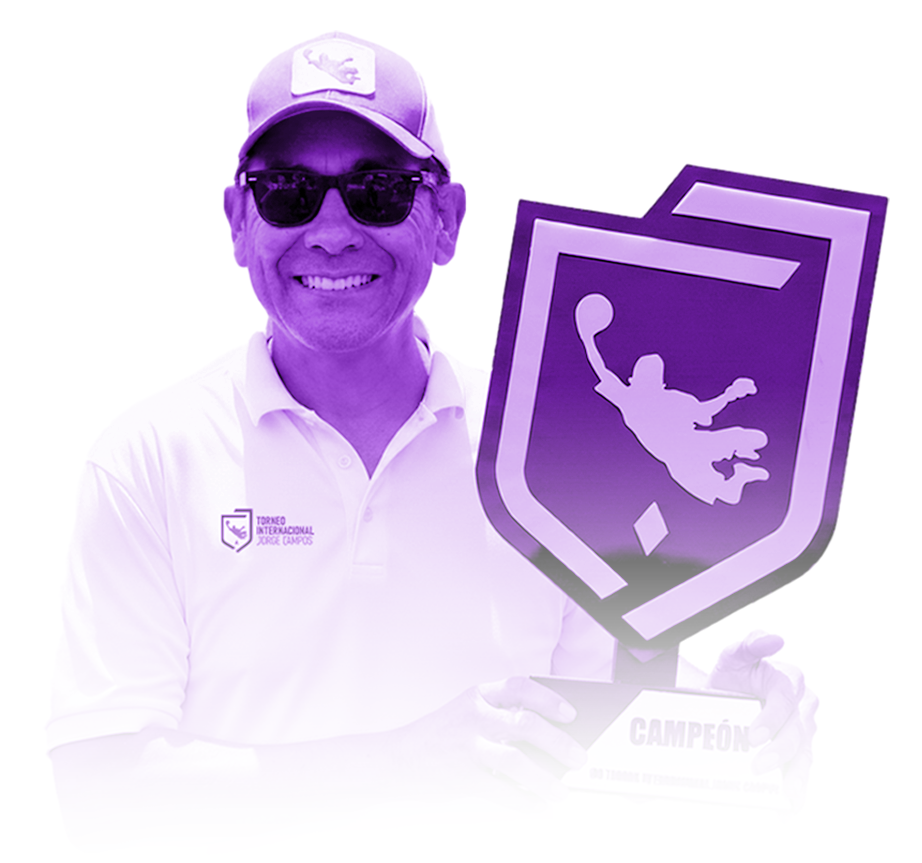
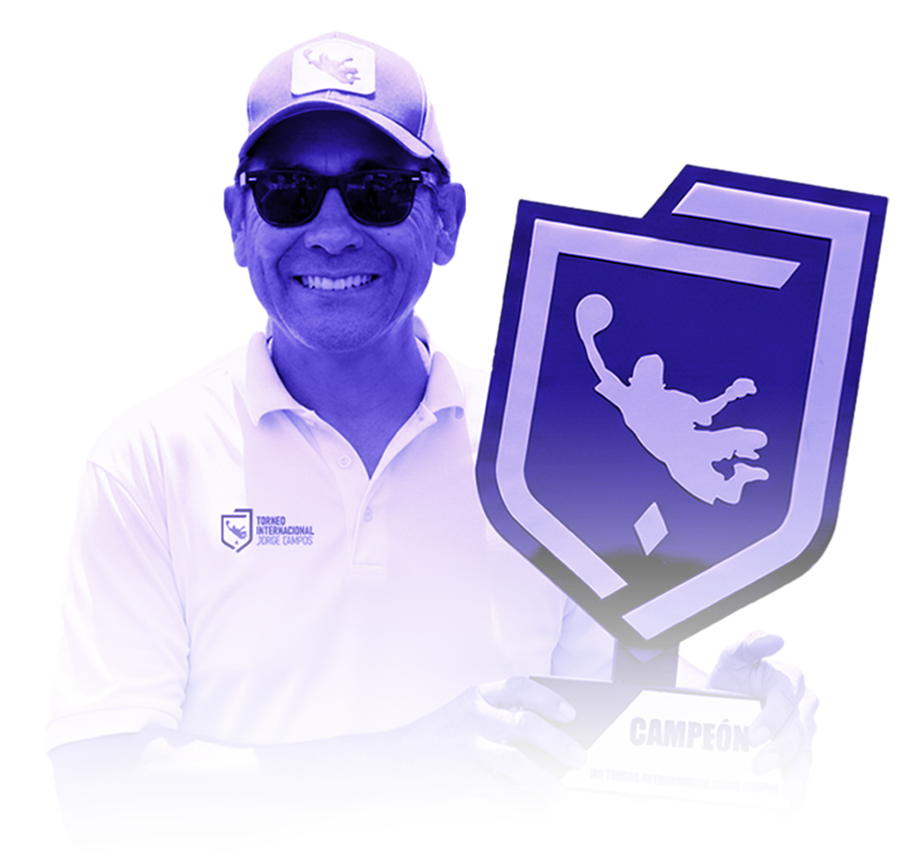
Cambia la paleta del sitio a los colores del cartel 2026
Reemplaza morado/amarillo/dorado por azul índigo, azul marino,
rosa y verde lima en el layout, páginas secundarias, CSS,
plantillas de correo y controlador de mail. Recolorea las
imágenes del hero (trofeo y escudo) de morado a azul índigo.
Añade los tokens morado/amarillo/verde a las páginas que los
usaban sin definirlos.

Claude-Session: https://claude.ai/code/session_014akzG4GBcR8KhfaMM9zCi3

Changed region(s): [[0.243, 0.0904, 0.9718, 0.6628], [0.243, 0.5724, 0.3341, 0.6327]]

diff --git a/controllers/mailController.js b/controllers/mailController.js
@@ -232,7 +232,7 @@ async function sendUserConfirmation(inscripcionData) {
                 <div style="text-align: center; margin-bottom: 30px;">
                     <img src="${baseData.logoUrl}" alt="Logo" style="max-height: 80px;">
                 </div>
-                <h1 style="color: #9220E1; text-align: center;">¡Gracias por tu inscripción!</h1>
+                <h1 style="color: #261B88; text-align: center;">¡Gracias por tu inscripción!</h1>
                 <p>Hola <strong>${inscripcionData.nombre} ${inscripcionData.apellidos}</strong>,</p>
                 <p>Hemos recibido tu solicitud de inscripción al <strong>Torneo Jorge Campos 2026</strong>.</p>
                 
@@ -243,8 +243,8 @@ async function sendUserConfirmation(inscripcionData) {
                     <p style="margin: 5px 0;"><strong>Fecha:</strong> ${fechaInscripcion}</p>
                 </div>
                 
-                <div style="background: #1a1a2e; padding: 25px; border-radius: 10px; margin: 20px 0; border: 2px solid #FDED07;">
-                    <h3 style="color: #FDED07; text-align: center; margin-top: 0;">Datos para realizar tu pago</h3>
+                <div style="background: #0A1250; padding: 25px; border-radius: 10px; margin: 20px 0; border: 2px solid #2DE515;">
+                    <h3 style="color: #2DE515; text-align: center; margin-top: 0;">Datos para realizar tu pago</h3>
                     <table style="width: 100%; color: white;">
                         <tr>
                             <td style="padding: 8px 0; color: #aaa;">Banco:</td>
@@ -252,14 +252,14 @@ async function sendUserConfirmation(inscripcionData) {
                         </tr>
                         <tr>
                             <td style="padding: 8px 0; color: #aaa;">Cuenta:</td>
-                            <td style="padding: 8px 0; font-weight: bold; color: #FDED07; font-family: monospace; font-size: 16px;">387104710202</td>
+                            <td style="padding: 8px 0; font-weight: bold; color: #2DE515; font-family: monospace; font-size: 16px;">387104710202</td>
                         </tr>
                         <tr>
                             <td style="padding: 8px 0; color: #aaa;">CLABE:</td>
-                            <td style="padding: 8px 0; font-weight: bold; color: #FDED07; font-family: monospace; font-size: 16px;">030010900043613530</td>
+                            <td style="padding: 8px 0; font-weight: bold; color: #2DE515; font-family: monospace; font-size: 16px;">030010900043613530</td>
                         </tr>
                     </table>
-                    <p style="color: #FDED07; font-size: 13px; margin: 15px 0 0 0; padding: 10px; background: rgba(253,237,7,0.1); border-radius: 5px;">
+                    <p style="color: #2DE515; font-size: 13px; margin: 15px 0 0 0; padding: 10px; background: rgba(45, 229, 21,0.1); border-radius: 5px;">
                         <strong>Importante:</strong> Al realizar la transferencia, incluye tu nombre completo y nombre del equipo como referencia.
                     </p>
                 </div>
@@ -272,11 +272,11 @@ async function sendUserConfirmation(inscripcionData) {
                     <li>¡Tu inscripción quedará confirmada!</li>
                 </ol>
                 
-                <div style="background: #9220E1; padding: 20px; border-radius: 10px; text-align: center; margin: 20px 0;">
-                    <p style="color: #FDED07; margin: 0 0 10px 0; font-weight: bold;">¿Ya realizaste tu pago?</p>
+                <div style="background: #261B88; padding: 20px; border-radius: 10px; text-align: center; margin: 20px 0;">
+                    <p style="color: #2DE515; margin: 0 0 10px 0; font-weight: bold;">¿Ya realizaste tu pago?</p>
                     <p style="color: white; margin: 0 0 15px 0;">Envíanos tu comprobante:</p>
                     <a href="https://wa.me/524494699962" style="display: inline-block; background: #25D366; color: white; padding: 12px 24px; border-radius: 8px; text-decoration: none; margin: 5px;">WhatsApp</a>
-                    <a href="mailto:contacto@torneojorgecampos.com.mx" style="display: inline-block; background: #F6288D; color: white; padding: 12px 24px; border-radius: 8px; text-decoration: none; margin: 5px;">Email</a>
+                    <a href="mailto:contacto@torneojorgecampos.com.mx" style="display: inline-block; background: #E92263; color: white; padding: 12px 24px; border-radius: 8px; text-decoration: none; margin: 5px;">Email</a>
                 </div>
                 
                 <hr style="margin: 30px 0; border: none; border-top: 1px solid #eee;">
@@ -325,7 +325,7 @@ function generateAdminHtmlContent(inscripcionData, baseData, template) {
         ciudad: inscripcionData.ciudad,
         cp: inscripcionData.cp,
         categoria: inscripcionData.categoria === 'femenil' ? 'Femenil' : 'Varonil',
-        categoriaColor: inscripcionData.categoria === 'femenil' ? '#E6007E' : '#DAA520',
+        categoriaColor: inscripcionData.categoria === 'femenil' ? '#E92263' : '#0A1250',
         añoCategoria: inscripcionData.año_categoria,
         fechaInscripcion: fechaInscripcion,
         ip: inscripcionData.ip || 'No disponible',
@@ -339,12 +339,12 @@ function generateAdminHtmlContent(inscripcionData, baseData, template) {
     // Fallback HTML para admin
     return `
         <div style="font-family: Arial, sans-serif; max-width: 600px; margin: 0 auto; padding: 20px;">
-            <div style="background: #9220E1; padding: 20px; border-radius: 10px 10px 0 0;">
+            <div style="background: #261B88; padding: 20px; border-radius: 10px 10px 0 0;">
                 <table style="width: 100%;">
                     <tr>
                         <td><img src="${baseData.logoUrl}" alt="Logo" style="height: 50px;"></td>
                         <td style="text-align: right;">
-                            <span style="background: #21FF04; color: #1a0a2e; padding: 8px 16px; border-radius: 4px; font-size: 12px; font-weight: bold;">NUEVA INSCRIPCIÓN</span>
+                            <span style="background: #2DE515; color: #050B33; padding: 8px 16px; border-radius: 4px; font-size: 12px; font-weight: bold;">NUEVA INSCRIPCIÓN</span>
                         </td>
                     </tr>
                 </table>
@@ -360,9 +360,9 @@ function generateAdminHtmlContent(inscripcionData, baseData, template) {
                 </p>
                 
                 <!-- EQUIPO DESTACADO -->
-                <div style="background: #1a1a2e; padding: 20px; border-radius: 8px; margin: 15px 0; border-left: 4px solid #FDED07;">
+                <div style="background: #0A1250; padding: 20px; border-radius: 8px; margin: 15px 0; border-left: 4px solid #2DE515;">
                     <p style="color: #888; margin: 0 0 5px 0; font-size: 12px; text-transform: uppercase;">Equipo</p>
-                    <h2 style="color: #FDED07; margin: 0; font-size: 24px;">${templateData.equipo}</h2>
+                    <h2 style="color: #2DE515; margin: 0; font-size: 24px;">${templateData.equipo}</h2>
                 </div>
                 
                 <h1 style="color: #333; font-size: 24px; margin: 20px 0 10px 0;">
@@ -370,11 +370,11 @@ function generateAdminHtmlContent(inscripcionData, baseData, template) {
                 </h1>
                 
                 <div style="background: #f8f8f8; border-radius: 8px; padding: 20px; margin: 20px 0;">
-                    <h3 style="color: #9220E1; margin: 0 0 15px 0; font-size: 14px; text-transform: uppercase;">Datos Personales</h3>
+                    <h3 style="color: #261B88; margin: 0 0 15px 0; font-size: 14px; text-transform: uppercase;">Datos Personales</h3>
                     <table style="width: 100%;">
                         <tr>
                             <td style="padding: 8px 0; color: #888; border-bottom: 1px solid #eee;">Email:</td>
-                            <td style="padding: 8px 0; text-align: right; border-bottom: 1px solid #eee;"><a href="mailto:${templateData.email}" style="color: #9220E1; font-weight: bold;">${templateData.email}</a></td>
+                            <td style="padding: 8px 0; text-align: right; border-bottom: 1px solid #eee;"><a href="mailto:${templateData.email}" style="color: #261B88; font-weight: bold;">${templateData.email}</a></td>
                         </tr>
                         <tr>
                             <td style="padding: 8px 0; color: #888; border-bottom: 1px solid #eee;">Celular:</td>
@@ -392,7 +392,7 @@ function generateAdminHtmlContent(inscripcionData, baseData, template) {
                 </div>
                 
                 <div style="background: #f8f8f8; border-radius: 8px; padding: 20px; margin: 20px 0;">
-                    <h3 style="color: #F6288D; margin: 0 0 15px 0; font-size: 14px; text-transform: uppercase;">Ubicación</h3>
+                    <h3 style="color: #E92263; margin: 0 0 15px 0; font-size: 14px; text-transform: uppercase;">Ubicación</h3>
                     <table style="width: 100%;">
                         <tr>
                             <td style="padding: 8px 0; color: #888; border-bottom: 1px solid #eee;">País:</td>
@@ -419,12 +419,12 @@ function generateAdminHtmlContent(inscripcionData, baseData, template) {
                             <a href="https://wa.me/52${(templateData.celular || '').replace(/\D/g, '')}" style="display: block; background: #25D366; color: white; padding: 15px; border-radius: 6px; text-decoration: none; text-align: center; font-weight: bold;">WhatsApp</a>
                         </td>
                         <td style="padding: 5px; width: 50%;">
-                            <a href="mailto:${templateData.email}" style="display: block; background: #9220E1; color: white; padding: 15px; border-radius: 6px; text-decoration: none; text-align: center; font-weight: bold;">Email</a>
+                            <a href="mailto:${templateData.email}" style="display: block; background: #261B88; color: white; padding: 15px; border-radius: 6px; text-decoration: none; text-align: center; font-weight: bold;">Email</a>
                         </td>
                     </tr>
                     <tr>
                         <td colspan="2" style="padding: 5px;">
-                            <a href="tel:${templateData.celular}" style="display: block; background: #F6288D; color: white; padding: 15px; border-radius: 6px; text-decoration: none; text-align: center; font-weight: bold;">Llamar: ${templateData.celular}</a>
+                            <a href="tel:${templateData.celular}" style="display: block; background: #E92263; color: white; padding: 15px; border-radius: 6px; text-decoration: none; text-align: center; font-weight: bold;">Llamar: ${templateData.celular}</a>
                         </td>
                     </tr>
                 </table>
@@ -437,7 +437,7 @@ function generateAdminHtmlContent(inscripcionData, baseData, template) {
                 </p>
             </div>
             
-            <div style="background: #1a1a2e; padding: 15px; text-align: center; border-radius: 0 0 8px 8px;">
+            <div style="background: #0A1250; padding: 15px; text-align: center; border-radius: 0 0 8px 8px;">
                 <p style="color: #888; font-size: 11px; margin: 0;">© ${templateData.year} ${templateData.siteName} - Panel de Administración</p>
             </div>
         </div>
@@ -503,7 +503,7 @@ async function sendTestEmail(toEmail) {
         subject: '🧪 Test - Torneo Jorge Campos',
         html: `
             <div style="font-family: Arial; padding: 20px;">
-                <h1 style="color: #9220E1;">Email de Prueba</h1>
+                <h1 style="color: #261B88;">Email de Prueba</h1>
                 <p><strong>Hora del servidor (UTC):</strong> ${new Date().toISOString()}</p>
                 <p><strong>Hora México (Centro):</strong> ${getFechaMexico()}</p>
                 <p><strong>Hora México (corta):</strong> ${getFechaCorta()}</p>

diff --git a/public/css/main.css b/public/css/main.css
@@ -1,7 +1,8 @@
 /* ========================================
    TORNEO JORGE CAMPOS 2026 - MAIN CSS
-   Colores: Rosa #F6288D, Morado #9220E1, 
-            Amarillo #FDED07, Verde #21FF04, Blanco #FFFFFF
+   Colores (paleta cartel 2026):
+            Azul índigo #261B88, Azul marino #0A1250,
+            Rosa #E92263, Verde lima #2DE515, Blanco #FFFFFF
    Fuente: Barlow / Barlow Condensed
    ======================================== */
 
@@ -41,10 +42,10 @@ html {
     z-index: 0;
     background: linear-gradient(
         180deg,
-        #9220E1 0%,
-        #9220E1 25%,
-        #F6288D 60%,
-        #C41E70 100%
+        #0A1250 0%,
+        #261B88 35%,
+        #3C2FB3 70%,
+        #E92263 100%
     );
 }
 
@@ -52,10 +53,11 @@ html {
     .hero-gradient-bg {
         background: linear-gradient(
             135deg,
-            #1a0a2e 0%,
-            #9220E1 25%,
-            #F6288D 75%,
-            #C41E70 100%
+            #050B33 0%,
+            #0A1250 20%,
+            #261B88 55%,
+            #3C2FB3 80%,
+            #E92263 100%
         );
     }
 }
@@ -321,7 +323,7 @@ html {
     left: 0;
     right: 0;
     height: 32px;
-    background: #FDED07;
+    background: #2DE515;
     transform: skewY(-1deg);
 }
 
@@ -361,10 +363,10 @@ html {
 
 @keyframes pulse-glow {
     0%, 100% {
-        box-shadow: 0 0 20px rgba(253, 237, 7, 0.5);
+        box-shadow: 0 0 20px rgba(45, 229, 21, 0.5);
     }
     50% {
-        box-shadow: 0 0 40px rgba(253, 237, 7, 0.8);
+        box-shadow: 0 0 40px rgba(45, 229, 21, 0.8);
     }
 }
 
@@ -374,7 +376,7 @@ html {
 
 /* Text gradient animado */
 .text-gradient {
-    background: linear-gradient(90deg, #FDED07, #F6288D, #9220E1, #FDED07);
+    background: linear-gradient(90deg, #2DE515, #FFFFFF, #E92263, #2DE515);
     background-size: 300% auto;
     -webkit-background-clip: text;
     -webkit-text-fill-color: transparent;
@@ -393,7 +395,7 @@ html {
 .marquee-container {
     overflow: hidden;
     width: 100%;
-    background: linear-gradient(90deg, #9220E1, #F6288D);
+    background: linear-gradient(90deg, #261B88, #E92263);
 }
 
 .marquee-content {
@@ -422,7 +424,7 @@ html {
    ======================================== */
 
 .btn-primary {
-    background: linear-gradient(135deg, #F6288D, #9220E1);
+    background: linear-gradient(135deg, #E92263, #261B88);
     color: #FFFFFF;
     padding: 0.75rem 2rem;
     border-radius: 9999px;
@@ -434,26 +436,26 @@ html {
 }
 
 .btn-primary:hover {
-    background: linear-gradient(135deg, #9220E1, #F6288D);
+    background: linear-gradient(135deg, #261B88, #E92263);
     transform: translateY(-2px);
-    box-shadow: 0 10px 30px rgba(246, 40, 141, 0.4);
+    box-shadow: 0 10px 30px rgba(233, 34, 99, 0.4);
 }
 
 .btn-secondary {
     background: transparent;
-    color: #FDED07;
+    color: #2DE515;
     padding: 0.75rem 2rem;
     border-radius: 9999px;
     font-weight: 700;
     text-transform: uppercase;
     letter-spacing: 0.05em;
     transition: all 0.3s ease;
-    border: 2px solid #FDED07;
+    border: 2px solid #2DE515;
 }
 
 .btn-secondary:hover {
-    background: #FDED07;
-    color: #9220E1;
+    background: #2DE515;
+    color: #261B88;
     transform: translateY(-2px);
 }
 
@@ -471,18 +473,18 @@ html {
 
 .card:hover {
     background: rgba(255, 255, 255, 0.1);
-    border-color: #FDED07;
+    border-color: #2DE515;
     transform: translateY(-5px);
 }
 
 .card-rosa {
-    background: linear-gradient(135deg, rgba(246, 40, 141, 0.2), rgba(246, 40, 141, 0.05));
-    border-color: rgba(246, 40, 141, 0.3);
+    background: linear-gradient(135deg, rgba(233, 34, 99, 0.2), rgba(233, 34, 99, 0.05));
+    border-color: rgba(233, 34, 99, 0.3);
 }
 
 .card-morado {
-    background: linear-gradient(135deg, rgba(146, 32, 225, 0.2), rgba(146, 32, 225, 0.05));
-    border-color: rgba(146, 32, 225, 0.3);
+    background: linear-gradient(135deg, rgba(38, 27, 136, 0.2), rgba(38, 27, 136, 0.05));
+    border-color: rgba(38, 27, 136, 0.3);
 }
 
 /* ========================================
@@ -500,7 +502,7 @@ html {
 .section-divider {
     width: 100px;
     height: 4px;
-    background: #FDED07;
+    background: #2DE515;
     margin: 1rem auto;
     border-radius: 2px;
 }
@@ -585,16 +587,16 @@ html {
 }
 
 ::-webkit-scrollbar-track {
-    background: #1a0a2e;
+    background: #050B33;
 }
 
 ::-webkit-scrollbar-thumb {
-    background: linear-gradient(180deg, #F6288D, #9220E1);
+    background: linear-gradient(180deg, #E92263, #261B88);
     border-radius: 5px;
 }
 
 ::-webkit-scrollbar-thumb:hover {
-    background: linear-gradient(180deg, #FF4DA6, #B44FFF);
+    background: linear-gradient(180deg, #FF5C8E, #4A3DD6);
 }
 
 /* ========================================
@@ -612,19 +614,19 @@ html {
 }
 
 .glow-rosa {
-    box-shadow: 0 0 30px rgba(246, 40, 141, 0.5);
+    box-shadow: 0 0 30px rgba(233, 34, 99, 0.5);
 }
 
 .glow-morado {
-    box-shadow: 0 0 30px rgba(146, 32, 225, 0.5);
+    box-shadow: 0 0 30px rgba(38, 27, 136, 0.5);
 }
 
 .glow-amarillo {
-    box-shadow: 0 0 30px rgba(253, 237, 7, 0.5);
+    box-shadow: 0 0 30px rgba(45, 229, 21, 0.5);
 }
 
 .glow-verde {
-    box-shadow: 0 0 30px rgba(33, 255, 4, 0.5);
+    box-shadow: 0 0 30px rgba(45, 229, 21, 0.5);
 }
 
 /* ========================================
